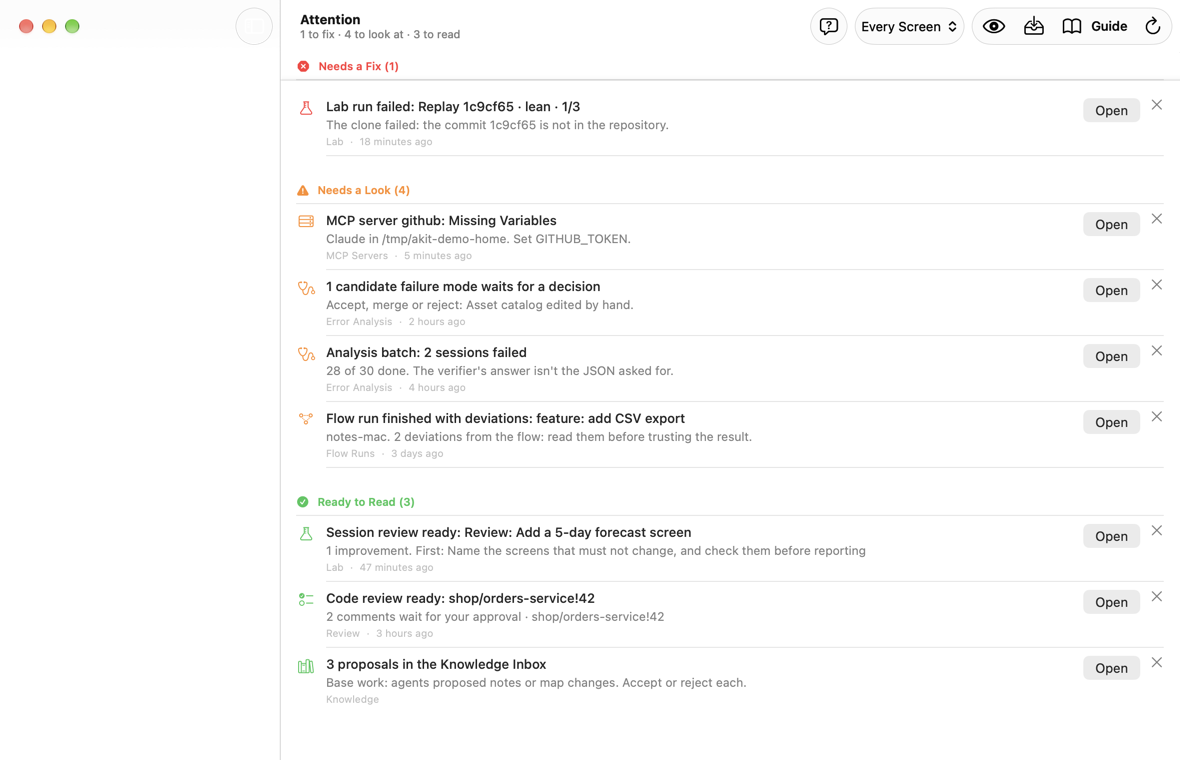
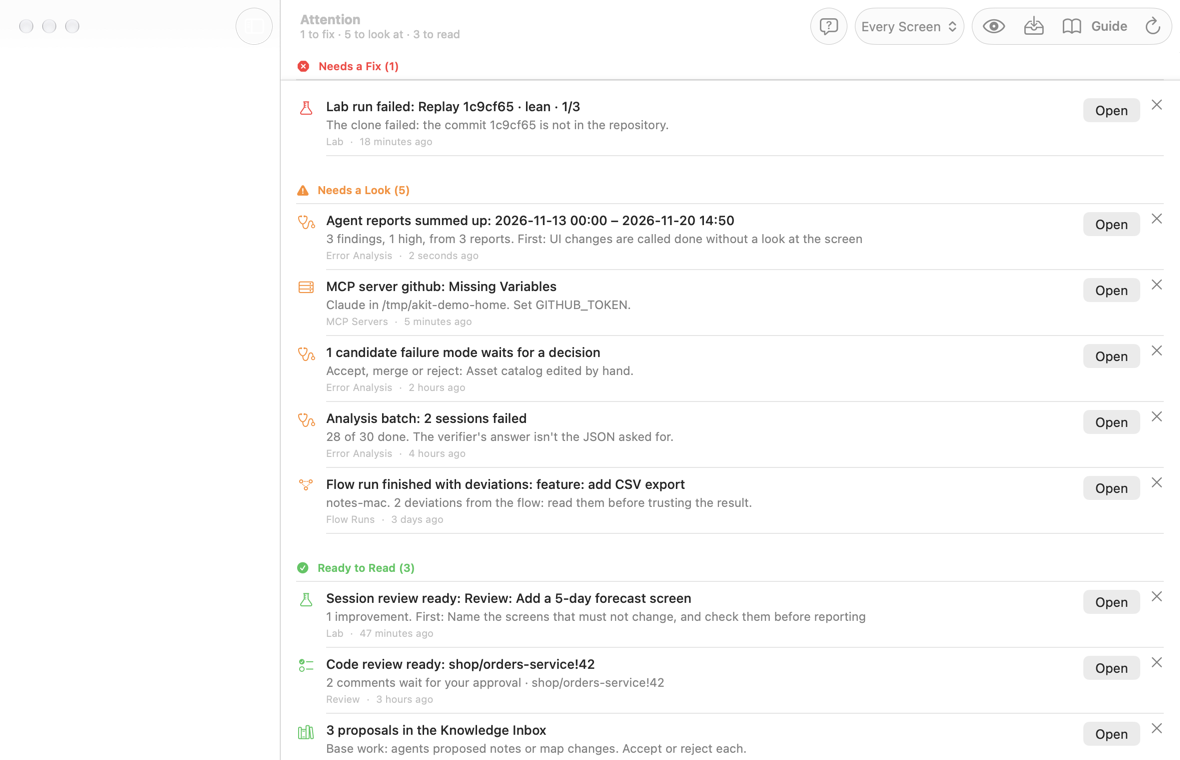
Attention: the latest Agent Reports summary as an item
A summary with a High finding needs a look, else it is ready to read;
earlier summaries cover the same days again, so only the latest shows.

diff --git a/AKitCore/Sources/AKitAttention/AttentionSources.swift b/AKitCore/Sources/AKitAttention/AttentionSources.swift
@@ -147,6 +147,29 @@ enum AttentionSources {
         return items
     }
 
+    // MARK: Agent Reports
+
+    /// The latest summary of the agent's own end-of-task reports saved on Error Analysis → Agent
+    /// Reports (earlier ones cover the same days again): with a High finding it needs a look, else
+    /// it is ready to read.
+    static func agentReports(env: HarnessEnvironment, since: Date) -> [AttentionItem] {
+        let store = AgentReportStore(env: env)
+        return store.list().prefix(1).compactMap { saved in
+            let date = (try? saved.file.resourceValues(forKeys: [.contentModificationDateKey]))?.contentModificationDate
+            guard let date, date >= since else { return nil }
+            let findings = store.analysis(of: saved.file)?.findings ?? []
+            let high = findings.filter { $0.severity == .high }
+            let period = saved.from.isEmpty ? "" : " \(saved.from) – \(saved.to)"
+            let first = (high.first ?? findings.first).map { ". First: \(Attention.short($0.title, limit: 140))" } ?? "."
+            let counts = findings.isEmpty ? "\(Attention.plural(saved.reports, "report")) summed up"
+                : "\(Attention.plural(findings.count, "finding")), \(high.count) high, from \(Attention.plural(saved.reports, "report"))"
+            return AttentionItem(id: "agent-reports:\(saved.file.lastPathComponent)", level: high.isEmpty ? .ready : .check,
+                                 source: .analysis, title: "Agent reports summed up:\(period)", detail: counts + first, date: date,
+                                 link: AttentionLink(screen: "analysis", tab: "agent-reports"),
+                                 fingerprint: "\(findings.count)|\(high.count)")
+        }
+    }
+
     // MARK: Evals
 
     /// The saved verdict of each layer eval, per agent: a sanity failure is a problem, every

diff --git a/AKitCore/Tests/AKitAttentionTests/AttentionTests.swift b/AKitCore/Tests/AKitAttentionTests/AttentionTests.swift
@@ -102,6 +102,24 @@ struct AttentionReviewTests {
     }
 }
 
+struct AttentionAgentReportsTests {
+    @Test func aSavedSummaryWithAHighFindingNeedsALook() throws {
+        let home = AttentionHome()
+        let store = AgentReportStore(env: home.env)
+        home.write(".akit/lab/agent-reports/20261120-090000.md", "---\nfrom: 2026-11-13 00:00\nto: 2026-11-20 00:00\nreports: 42\n---\n# Report\n")
+        let finding = AgentReports.Finding(severity: .high, title: "Tests are skipped when the build is slow", detail: "d", section: "s",
+                                           count: 5, reports: [1], prompt: "p")
+        try JSONEncoder().encode(AgentReports.Analysis(summary: "s", findings: [finding]))
+            .write(to: store.folder.appending(path: "20261120-090000.json"))
+        home.write(".akit/lab/agent-reports/20261119-090000.md", "---\nreports: 3\n---\n")
+        let found = items(home)
+        #expect(found.map(\.level) == [.check], "only the latest summary")
+        #expect(found[0].title == "Agent reports summed up: 2026-11-13 00:00 – 2026-11-20 00:00")
+        #expect(found[0].detail == "1 finding, 1 high, from 42 reports. First: Tests are skipped when the build is slow")
+        #expect(found[0].link == AttentionLink(screen: "analysis", tab: "agent-reports"))
+    }
+}
+
 struct AttentionStateTests {
     @Test func mcpServersThatDidNotConnect() throws {
         let home = AttentionHome()

diff --git a/AKitCore/Sources/AKitAttention/Attention.swift b/AKitCore/Sources/AKitAttention/Attention.swift
@@ -121,6 +121,7 @@ public enum Attention {
         let items = AttentionSources.lab(env: env, since: since)
             + AttentionSources.review(env: env, since: since)
             + AttentionSources.analysis(env: env, since: since)
+            + AttentionSources.agentReports(env: env, since: since)
             + AttentionSources.evals(env: env, layers: brain?.layers.map(\.name) ?? [], since: since)
             + AttentionSources.flows(env: env, projects: projects, since: since)
             + AttentionSources.mcp(env: env, since: since)

diff --git a/docs/guides/screens.ru.md b/docs/guides/screens.ru.md
@@ -426,7 +426,7 @@ AKit запоминает выбор на этом Mac.
 - «Я уже прочитал отчёты, они мешают» → **Dismiss All Ready** или крестик у строки.
 - «Агенту в терминале нужно знать, что сейчас не так» → `akit attention`.
 
-![Экран Attention: вверху Needs a Fix с упавшим запуском Lab, ниже Needs a Look с MCP-сервером без переменной, кандидатом в режим ошибок, батчем с упавшими сессиями и flow run с отклонениями, внизу Ready to Read с ревью сессии, ревью merge request'а и предложениями в Knowledge Inbox; у каждой строки кнопка Open и крестик; вверху справа Every Screen, глаз (Show Dismissed), Dismiss All Ready, Guide и Refresh](images/attention.png)
+![Экран Attention: вверху Needs a Fix с упавшим запуском Lab, ниже Needs a Look со сводкой Agent Reports с находкой High, MCP-сервером без переменной, кандидатом в режим ошибок, батчем с упавшими сессиями и flow run с отклонениями, внизу Ready to Read с ревью сессии, ревью merge request'а и предложениями в Knowledge Inbox; у каждой строки кнопка Open и крестик; вверху справа Every Screen, глаз (Show Dismissed), Dismiss All Ready, Guide и Refresh](images/attention.png)
 
 #### Что на экране
 <!-- section: attention-screen -->
@@ -434,8 +434,8 @@ AKit запоминает выбор на этом Mac.
 Список разбит на три части, сверху вниз по срочности:
 
 - **Needs a Fix** (красная): что-то упало. Запуск Lab с ошибкой или ошибкой агента, упавшие control cells (одной строкой), ревью merge request'а, которое не дошло до конца, комментарии, которые не отправились, flow run, который остановился или встал (halted), MCP-сервер, который не подключился (Failed, Timed Out, Not Found), проблема brain, эвал слоя, которому нельзя верить (прошла read-only ячейка).
-- **Needs a Look** (оранжевая): не сломано, но ждёт вашего решения или выглядит странно. Батч Error Analysis с упавшими сессиями или на паузе, кандидаты в режимы ошибок, скрытые тесты replay, которые не прошли, ревью сессии без ответа, комментарии, которые могли уйти дважды, flow run с отклонениями или остановленный вами, MCP-сервер, которому нужен вход, одобрение или переменная, эвал слоя, из которого выпали ячейки.
-- **Ready to Read** (зелёная): готовая работа. Ревью merge request'а с комментариями на одобрение, ревью сессии в Lab, отчёт Error Analysis, вердикт эвала слоя, предложения агентов в Knowledge Inbox.
+- **Needs a Look** (оранжевая): не сломано, но ждёт вашего решения или выглядит странно. Батч Error Analysis с упавшими сессиями или на паузе, кандидаты в режимы ошибок, скрытые тесты replay, которые не прошли, сводка Agent Reports с находкой уровня High, ревью сессии без ответа, комментарии, которые могли уйти дважды, flow run с отклонениями или остановленный вами, MCP-сервер, которому нужен вход, одобрение или переменная, эвал слоя, из которого выпали ячейки.
+- **Ready to Read** (зелёная): готовая работа. Ревью merge request'а с комментариями на одобрение, ревью сессии в Lab, отчёт Error Analysis, последняя сводка отчётов агента (Error Analysis → **Agent Reports**), вердикт эвала слоя, предложения агентов в Knowledge Inbox.
 
 В каждой строке:
 

diff --git a/docs/design/README.md b/docs/design/README.md
@@ -70,7 +70,7 @@ change, change the setup. The sidebar groups follow it (Setup, Activity, Improve
 | [`agent-reports.md`](agent-reports.md) | What did the agent write at the end of each task over a period, in one short report? | Error Analysis → Agent Reports: From/To with presets, Sessions, Sections, Found with Filter and Copy as Markdown, Summarize with Focus, Language, Thinking, Model; Report and Saved; `akit reports`, `summarize`, `list`, `show` | built 2026-11-20, A1–A10: Pi's Agent decisions, Autonomy improvements and Unknown unknowns (and their Russian headings) gathered from every session of a period; a simple report by a Pi model with an optional focus, saved in `~/.akit/lab/agent-reports`; A12–A13 (the same day): findings with severity, colors and a prompt each, Copy All Prompts, `show --prompts`; the status bar no longer pushes the window up | comparing two periods; a What to change point → Corrections or a layer edit |
 | [`definitions.md`](definitions.md) | What does a shared term mean? | — | tiers, sending policy, keys, shared `FailureSignals` (2026-10-08) | fingerprint, `dirty` / `diff_hash` |
 | [`flows.md`](flows.md) | How do I set up and watch a multi-agent run for Pi: order, models, handoffs, gates, tokens? | Flows and Runs screens; `/flow` runs in Pi (planned); `akit flow list\|show\|check\|runs\|schema` | step 0 (spec, probe on this Mac), step 1 (2026-11-17: `AKitFlows` with flow file, routing, check, run-record reader, `flow.schema.json`, golden vectors; `akit flow`); 2a built 2026-11-17 (Pi runner core: `flow-core.ts`, `pi-adapter.ts`, `akit-flow.ts`, run record, `make test-flows`); 2b built 2026-11-17 (`flow_handoff`, rerun once, check evidence, sample run read by Swift); 2c built 2026-11-17 (worktree outside the tree, step commits with trailers, resume from events + trailers, `STOP`); 2d built 2026-11-17 (gates with the run diff, Approve / Send Back, `akit_flow` with confirm; no push or MR in v1); 3a built 2026-11-17 (`akit-flow-guard.ts`: tool allow-list incl. `mcp__`, path rules, no `bash` in write-restricted steps, subagent tools blocked, blocks logged as deviations); 3b built 2026-11-17 (Pi row below the editor, `alt+N` / `/flow show <n>` step overlay, `make test-flows-e2e` on real Pi 1.0.4); 4 built 2026-11-17 (`brain/flows`, `flows:` in layers, Apply renders `.pi/flows` + `.pi/extensions/akit-flow/`, hand edits refused, run records excluded from git; Setup → Flows with cards, pickers, back-arrows, Check, Feature template; guide `flows.ru.md`); 5a built 2026-11-17 (one-line cards, one open at a time, Choose… skills, editable prompt); 5b built 2026-11-17 (Activity → Runs: diagram with state, tokens, deviations, evidence, handoff, Stop; `akit flow runs`; step sessions tagged `flow`, out of Insights, Sessions → Flow Steps; Lab and Corrections from a step; A7: child tokens not in the parent file); 5c built 2026-11-17 (`akit doctor` writes `pi-capabilities.json` and checks the exclude, greyed-out options, Pi version next to `testedPi`, 14-day cleanup of clean run worktrees, skills); 6 built 2026-11-20 (token audit of Feature: code-only checks, the plan to every later step, a rerun sees its own last result, tools named in the prompt; simpler card with More Settings; Generate… writes a step's prompt through Pi; F21 a read-only step on Claude Code, tried end to end with a Claude architect) | work-Mac probe (Q1) |
-| [`attention.md`](attention.md) | What needs me now, across every screen, and where does it live? | Now → Attention (the start screen): Needs a Fix, Needs a Look, Ready to Read, Open, Dismiss; `akit attention`; `akit://<screen>?item=…` links | step 1 (2026-11-20): module `AKitAttention`, sources Lab, Review, Error Analysis, Evals, Flow runs, MCP checks, Knowledge inbox, Brain; dismissals until an item changes | Agent Reports, Corrections verdicts, unsaved eval verdicts, Meetings, Insights |
+| [`attention.md`](attention.md) | What needs me now, across every screen, and where does it live? | Now → Attention (the start screen): Needs a Fix, Needs a Look, Ready to Read, Open, Dismiss; `akit attention`; `akit://<screen>?item=…` links | step 1 (2026-11-20): module `AKitAttention`, sources Lab, Review, Error Analysis, Evals, Flow runs, MCP checks, Knowledge inbox, Brain; Agent Reports summaries; dismissals until an item changes | Corrections verdicts, unsaved eval verdicts, Meetings, Insights |
 
 The in-app guides are in `docs/guides/` (`screens.ru.md`, `error-analysis.ru.md`). Since
 2026-10-11 both are full guides: every screen and every Error Analysis tab from simple tasks

diff --git a/docs/design/attention.md b/docs/design/attention.md
@@ -26,7 +26,7 @@ screen, which Open shows.
 | T1 | Where | Its own sidebar group Now, first, with one screen, Attention; the start screen of the window (was Overview). Badge: the problems and the items that need a look, not dismissed |
 | T2 | Module | `AKitAttention`, above Lab, Review, ErrorAnalysis, Flows, MCP, Knowledge and Brain, below CommandLine. It reads only: no git, no agent, no model, no index import. The app reads it off the main thread at start, on the screen and every 30 seconds |
 | T3 | Levels | Needs a Fix (something failed), Needs a Look (not broken, waits for a decision or looks off), Ready to Read (finished work). Problems first, newest first inside a level |
-| T4 | Sources (step 1) | Lab: a failed run, an agent error, a session review with findings, a review without a valid `review.json`, hidden tests that failed; failed control cells are one item. Review: the latest run of each merge request: failed, comments not sent, sends that may have gone through, comments waiting for approval. Error Analysis: a batch with failed sessions, a paused batch, a finished report; candidate modes. Evals: each layer's saved verdict per agent (a failed sanity check is a problem, cells left out need a look). Flow runs: stopped (by the user: a look), halted, finished with deviations, a record that can't be read. MCP: the last check that didn't connect (failed, timed out, not found: a fix; sign-in, approval, variables, untrusted folder: a look). Knowledge: proposals in each base's inbox. Brain: its problems |
+| T4 | Sources (step 1) | Lab: a failed run, an agent error, a session review with findings, a review without a valid `review.json`, hidden tests that failed; failed control cells are one item. Review: the latest run of each merge request: failed, comments not sent, sends that may have gone through, comments waiting for approval. Error Analysis: a batch with failed sessions, a paused batch, a finished report; candidate modes; the latest summary saved on Agent Reports (with a High finding it needs a look). Evals: each layer's saved verdict per agent (a failed sanity check is a problem, cells left out need a look). Flow runs: stopped (by the user: a look), halted, finished with deviations, a record that can't be read. MCP: the last check that didn't connect (failed, timed out, not found: a fix; sign-in, approval, variables, untrusted folder: a look). Knowledge: proposals in each base's inbox. Brain: its problems |
 | T5 | Age | Runs, reviews, batches, verdicts and checks older than 14 days are left out; inbox proposals and brain problems count at any age |
 | T6 | Open | Each item has a link: screen, tab, item, folder. Open (or a double click) shows the screen with the run, batch, layer set, server or base selected, through the screens' reveal hooks (`revealLabRun`, `revealBatch`, `showLayerSet`, `revealAnalysisTab`, `revealFlowRun`, `revealMCPCheck`, `revealBrainLayer`, `ReviewModel.open`, the knowledge base and its Inbox tab) |
 | T7 | Dismiss | Dismiss hides an item until it changes (another status, check or count): its id and fingerprint in `~/.akit/attention.json`, entries of items gone are dropped. Show Dismissed, Restore; Dismiss All Ready for what was read |
@@ -52,8 +52,6 @@ screen, which Open shows.
 
 ## Next
 
-- Agent Reports (`agent-reports.md`, being built): a summary saved in the last days as Ready to
-  Read, linked to Error Analysis → Agent Reports, once that work is in master.
 - Corrections: a rule whose corrections went up (`CorrectionVerdict.more`); needs the index scan,
   so off the 30-second loop.
 - Layer evals whose cells all finished but whose verdict was never saved (only shown comparisons save one).
